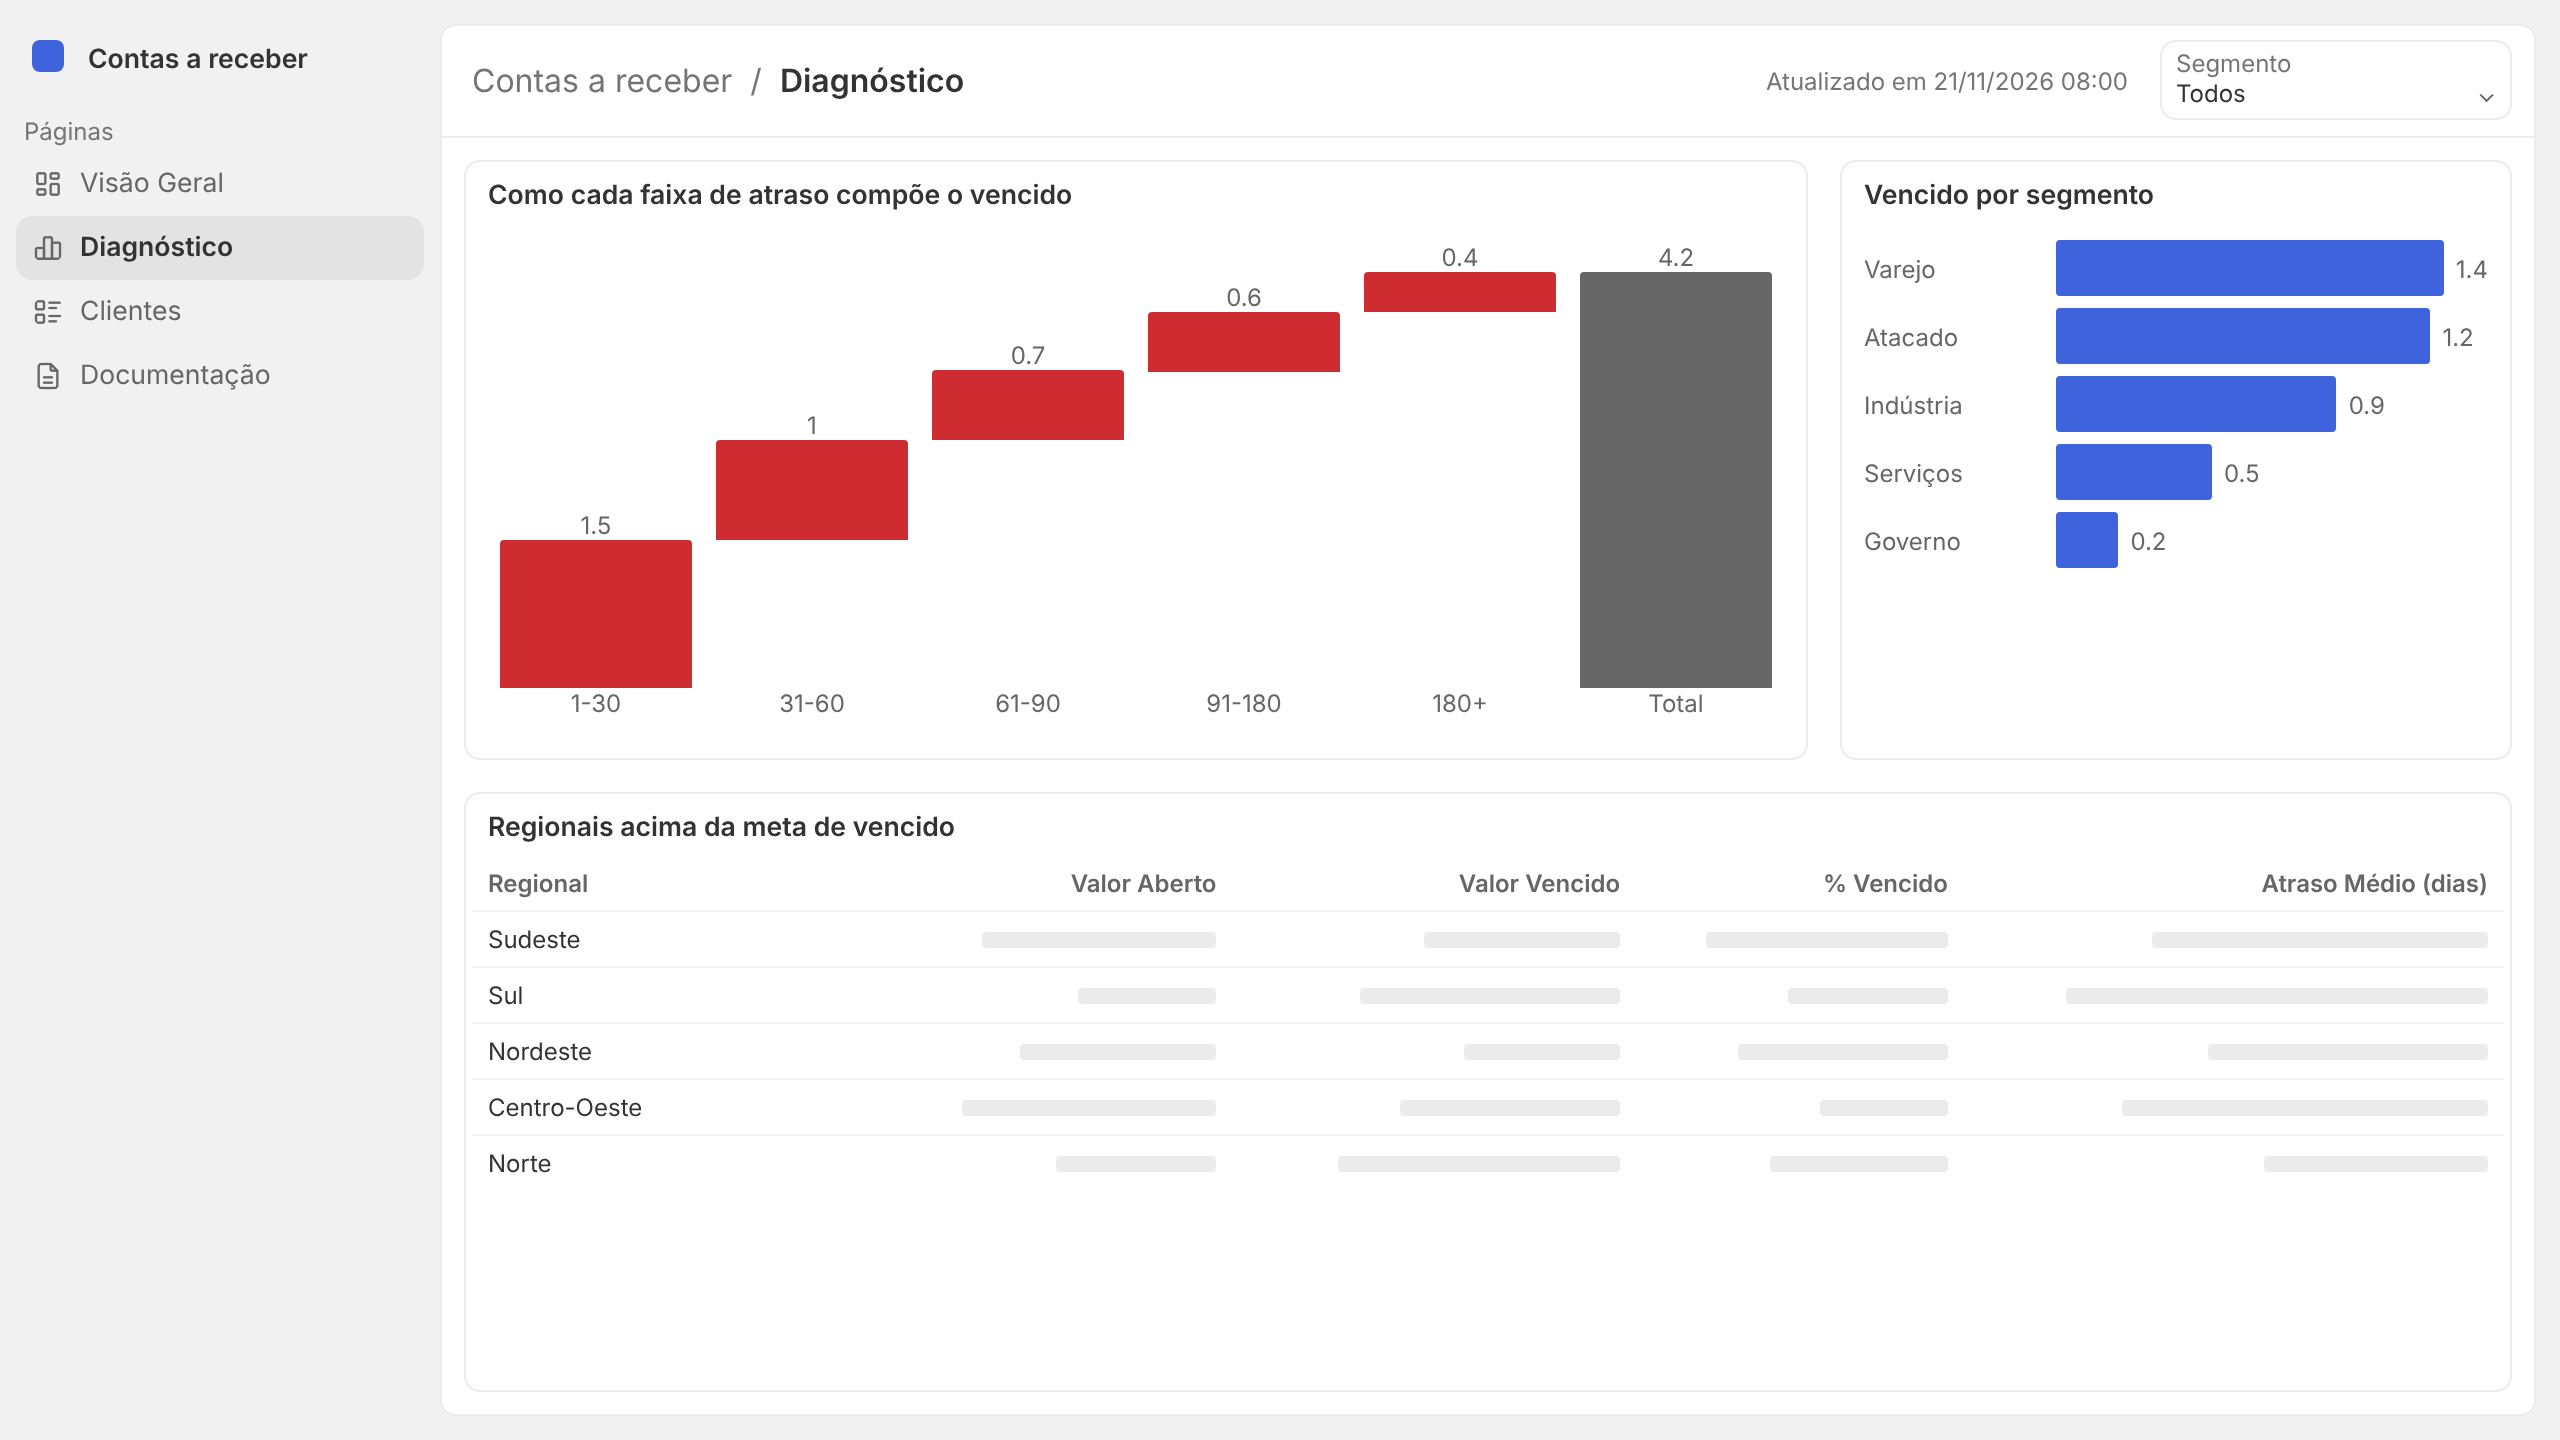
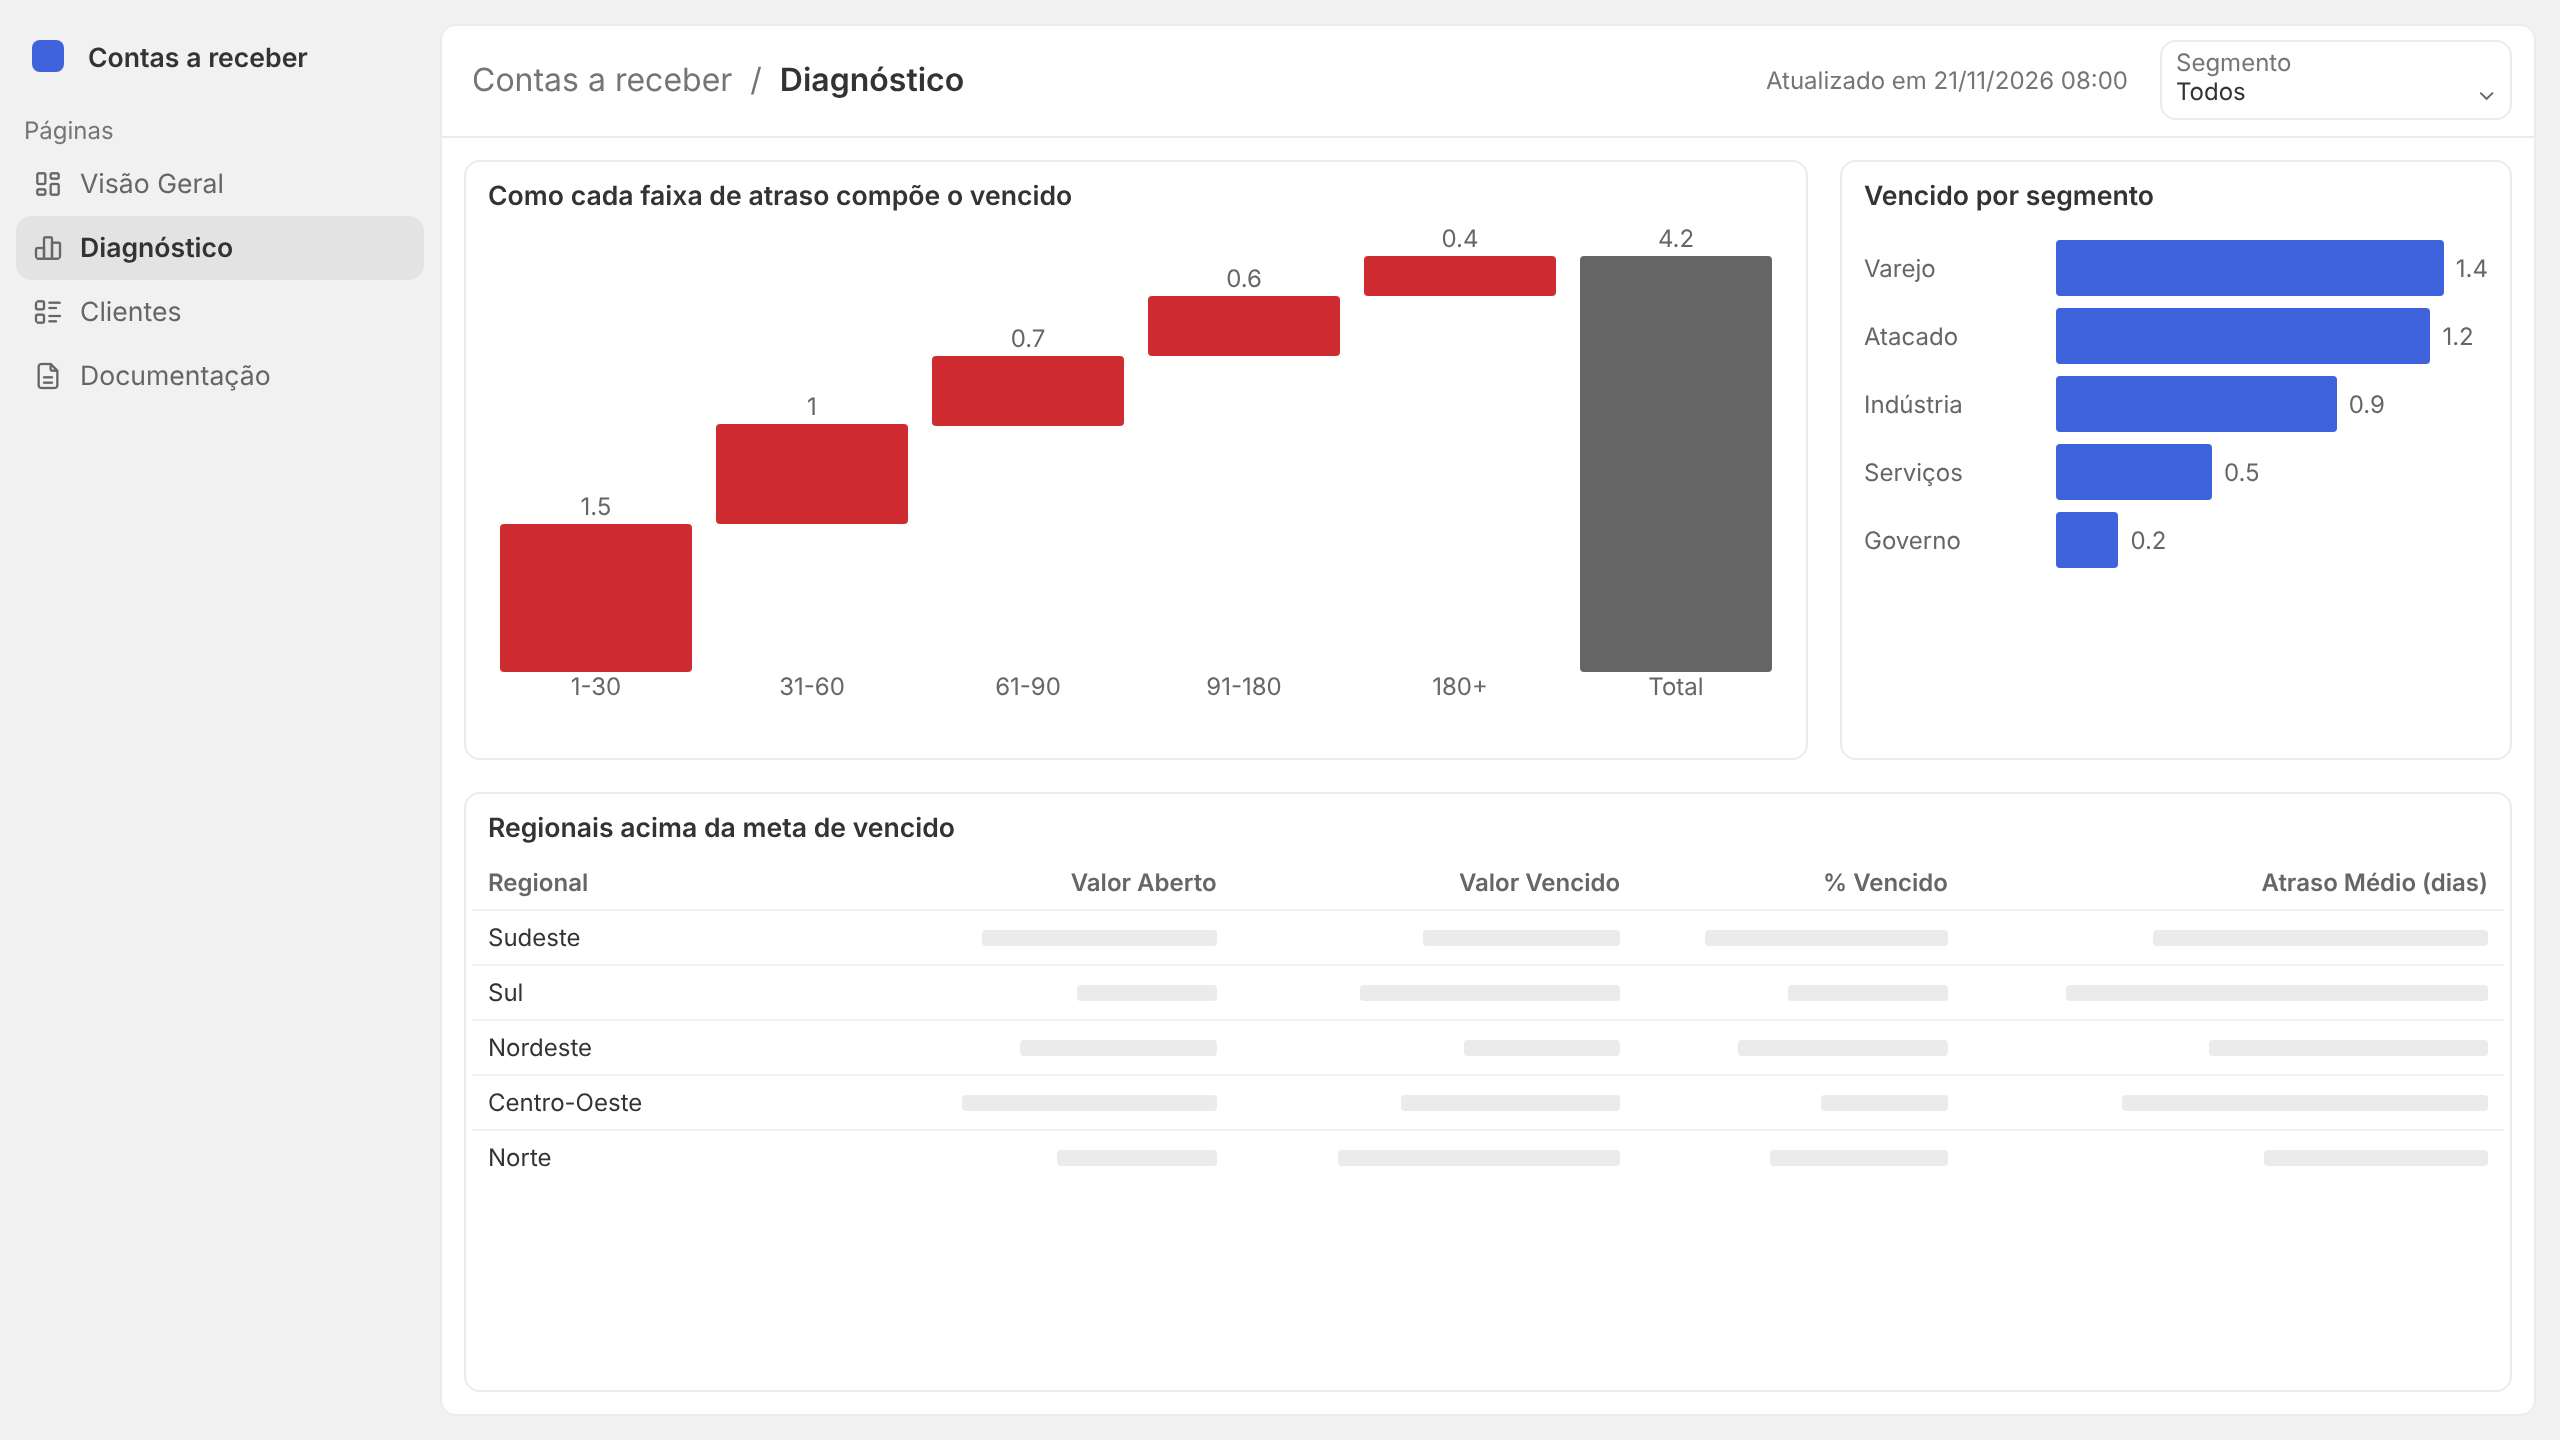
Corrigir cascata com valores negativos e escala das linhas no preview
A cascata do preview supunha que todos os passos eram positivos, e uma
DRE (receita positiva, custos e despesas negativos) saía com barras fora
do cartão. Agora cada passo vai do nível acumulado anterior ao seguinte,
com as cores de aumento, redução e total do tema ou do visual, e os
rótulos ficam acima de cada barra.

O gráfico de linha passa a ajustar o eixo aos dados, como o Power BI faz.
Antes, uma série perto de 2.300 pessoas virava uma reta encostada no
topo.

As imagens da documentação foram geradas de novo em 2x.

Claude-Session: https://claude.ai/code/session_01C6SLVgt6kKdWmBtA4MW9TP

diff --git a/skills/powerbi-architect/scripts/preview_pbir.py b/skills/powerbi-architect/scripts/preview_pbir.py
@@ -342,30 +342,40 @@ class Preview:
                 for l, v in zip(labels, vals))
             return f'<div style="padding:8px 12px">{rows}</div>'
         if "column" in kind or kind == "waterfallchart":
-            cols, base = [], 0.0
+            waterfall = kind == "waterfallchart"
             sent = {k: self.color(prop(objs, "sentimentColors", k + "Fill"))
-                    or self.style("waterfallChart", "sentimentColors", k + "Fill") for k in ("increase", "total")}
-            total = sum(vals)
-            series = list(zip(labels, vals))
-            if vtype == "waterfallChart":
-                series.append(("Total", total))
-                peak = total or 1
+                    or self.style("waterfallChart", "sentimentColors", k + "Fill")
+                    for k in ("increase", "decrease", "total")}
+            steps, level = [], 0.0                   # (label, value, start, end, kind)
+            for l, v in zip(labels, vals):
+                if waterfall:
+                    steps.append((l, v, level, level + v, "increase" if v >= 0 else "decrease"))
+                    level += v
+                else:
+                    steps.append((l, v, 0.0, v, "column"))
+            if waterfall:
+                steps.append(("Total", level, 0.0, level, "total"))
+            ends = [x for st in steps for x in st[2:4]] + [0.0]
+            lo, hi = min(ends), max(ends)
             plot = body_h - 40                     # room for the value and category labels
-            for i, (l, v) in enumerate(series):
-                is_total = vtype == "waterfallChart" and i == len(series) - 1
-                bottom = 0 if (vtype != "waterfallChart" or is_total) else base
-                fill = (sent.get("total") or "#666666") if is_total else (
-                    (sent.get("increase") or self.accent) if vtype == "waterfallChart" else self.accent)
-                bar_h, pad = plot * v / peak, plot * bottom / peak
-                cols.append(f'<div style="flex:1;margin:0 6px;display:flex;flex-direction:column;justify-content:flex-end">'
-                            f'<div style="{lab};text-align:center">{v:g}</div>'
-                            f'<div style="height:{bar_h:.0f}px;background:{fill};border-radius:2px 2px 0 0"></div>'
-                            f'<div style="height:{pad:.0f}px"></div>'
-                            f'<div style="{lab};text-align:center;white-space:nowrap;overflow:hidden;height:18px">{html.escape(l)}</div></div>')
-                if vtype == "waterfallChart" and not is_total:
-                    base += v
-            return f'<div style="display:flex;align-items:flex-end;height:{body_h}px;padding:8px 12px 0">{"".join(cols)}</div>'
-        pts = " ".join(f"{i * 100 / (len(vals) - 1 or 1):.1f},{66 - 56 * v / peak:.1f}" for i, v in enumerate(vals))
+            scale = plot / ((hi - lo) or 1)
+            cols = []
+            for l, v, a, b, k in steps:
+                fill = self.accent if k == "column" else (sent.get(k) or {"total": "#666666"}.get(k, self.accent))
+                top = (hi - max(a, b)) * scale
+                cols.append(f'<div style="flex:1;margin:0 6px;position:relative;height:{plot + 18:.0f}px">'
+                            f'<div style="position:absolute;left:0;right:0;top:{top - 16:.0f}px;{lab};'
+                            f'text-align:center">{v:g}</div>'
+                            f'<div style="position:absolute;left:0;right:0;top:{top:.0f}px;height:{max(abs(b - a) * scale, 1):.0f}px;'
+                            f'background:{fill};border-radius:2px"></div>'
+                            f'<div style="position:absolute;left:0;right:0;bottom:0;{lab};text-align:center;white-space:nowrap;'
+                            f'overflow:hidden;height:18px">{html.escape(l)}</div></div>')
+            return (f'<div style="display:flex;align-items:flex-end;height:{body_h}px;padding:24px 12px 0;'
+                    f'box-sizing:border-box">{"".join(cols)}</div>')
+        low = min(vals)                            # line axes fit the data, like Power BI's auto range
+        low = 0 if low > 0 and low < peak * 0.5 else low
+        pts = " ".join(f"{i * 100 / (len(vals) - 1 or 1):.1f},{62 - 52 * (v - low) / ((peak - low) or 1):.1f}"
+                       for i, v in enumerate(vals))
         sw = num(self.style("lineChart", "lineStyles", "strokeWidth", 2), 2)
         return (f'<svg viewBox="0 0 100 70" preserveAspectRatio="none" style="width:100%;height:{body_h}px;'
                 f'padding:8px 12px;box-sizing:border-box"><polyline points="{pts}" fill="none" stroke="{self.accent}" stroke-width="{sw}" '
